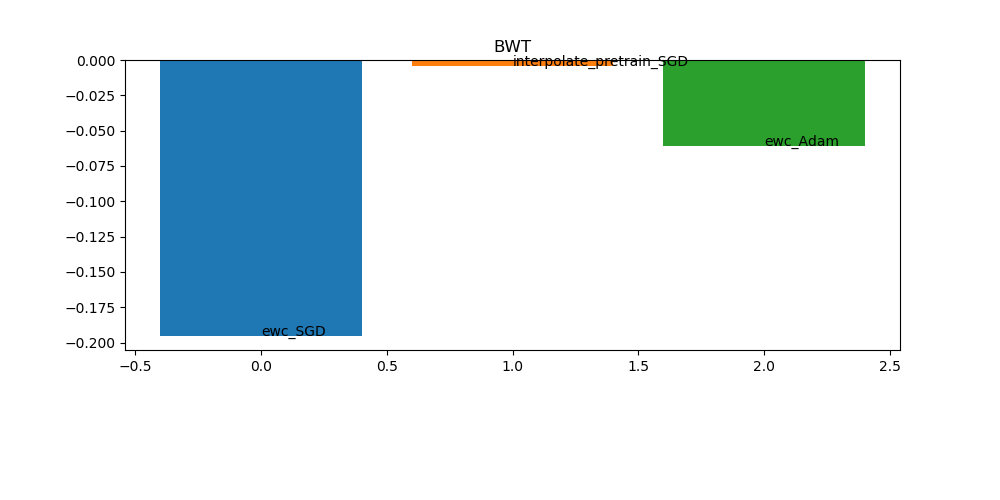
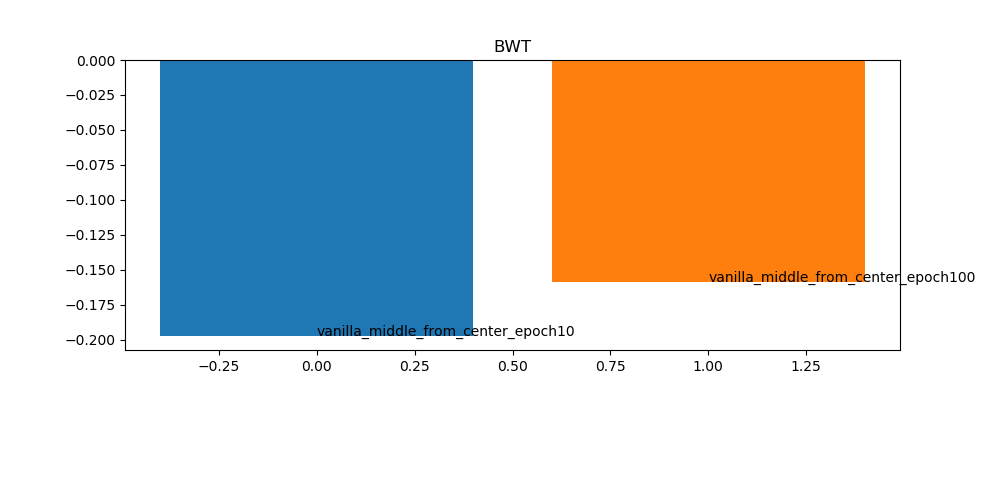
ewc experiment

diff --git a/plot_interpolation_graph_per_task_for_interpolate_pretrain.py b/plot_interpolation_graph_per_task_for_interpolate_pretrain.py
@@ -1,0 +1,186 @@
+import sys, os, time
+import numpy as np
+
+import pickle
+
+from numpy.core.defchararray import array
+from arguments import get_args
+import random
+
+import matplotlib.pyplot as plt
+import re
+
+def get_acc(filename):
+    target_file = open(filename, "r")
+    content = target_file.readlines()
+    acc = []
+    for model_t, line in enumerate(content):
+        t_acc = [float(i) for i in line.split(" ")]
+        if sum(t_acc) < 1e-6:
+            break
+        acc.append(t_acc)
+    return acc
+
+def get_bwt(filename):
+    target_file = open(filename, "r")
+    content = target_file.readlines()
+    last_acc = [float(i) for i in content[-1].split(" ")]
+    for t, line in enumerate(content):
+        if t == len(content)-1:
+            break
+        t_acc = [float(i) for i in line.split(" ")]
+        R_ii = t_acc[t]
+        last_acc[t] = last_acc[t] - R_ii
+    return sum(last_acc[0:-1])/float(len(last_acc[0:-1]))
+def main():
+    if len(sys.argv) != 4:
+        print('Argument 1 : target directory to plot')
+        print('Argument 2 : Plot in One figure - 1, Plot in multiple figure - 2')
+        print('Argument 3 : Name for ouput figure')
+        sys.exit()
+    print('Load data...')
+    loss_dict = dict()
+    target_dir = sys.argv[1]
+    plot_type = int(sys.argv[2])
+    acc_list = {} 
+    for filename in os.listdir(target_dir):
+        if filename.endswith(".txt"):
+            if 'interpolate_pretrain_interpolate_from_model_19.txt' in filename:
+                trainer = filename
+            #elif 'CIFAR100_for_Resnet' in filename and 'epoch_100' in filename and 'SGD' in filename and 'ewc' in filename:
+            #    trainer = 'ewc_SGD'
+            #elif 'CIFAR100_for_Resnet' in filename and 'epoch_100' in filename and 'SGD' in filename and 'interpolate_pretrain' in filename:
+            #    trainer = 'interpolate_pretrain_SGD'
+            else:
+                continue
+            model_t = re.search('interpolate_pretrain_interpolate_from_model_(.+?).txt', filename).group(1)
+            #lr = re.search('lr_(.+?)_', filename).group(1)
+            acc = get_acc(os.path.join(target_dir, filename))
+            for t, acc_t in enumerate(acc):
+                acc_list[t] = ('task_{}'.format(t), acc_t)
+            # if trainer not in acc_list.keys():
+            #     acc_list[trainer] = (filename, acc)
+            # else:
+            #     if acc_list[trainer][1][-1] < acc[-1]:
+            #         acc_list[trainer] = (filename, acc)
+
+            #if acc[-1] > 65.5:
+            #    acc_list.append((filename, acc))
+            #if len(acc_list) == 0:
+            #    acc_list.append((trainer, lamb, lr, acc))
+            #else:
+            #    if acc[-1] > acc_list[-1][-1][-1]:
+            #        del(acc_list[-1])
+            #        acc_list.append((trainer, lamb, lr, acc))
+            #    else:
+            #        continue
+        else:
+            continue
+
+    #acc_list.sort(key=lambda x:(x[0], float(x[1]), float(x[2])))
+    #acc_list.sort(key=lambda x:x[1])
+# Plot in one Figure
+    if plot_type == 1:
+        title = f"per Task ACC - Left : Model {model_t}, Right : Another model"
+        plt.figure(figsize=(10,5))
+        plt.title(title)
+        #plt.xticks(np.arange(1,6), labels=['2', '3', '4', '5'])
+        plt.xticks(np.arange(0,30,1), labels = [str(round(float(i),2)) for i in np.arange(-1,2, 0.1)])
+        # plt.ylim([0,1])
+        #plt.xticks(np.arange(30))
+        plt.xlabel("Interpolation Coefficient")
+        plt.ylabel("Acc on per Task")
+
+        #for trainer, lamb, lr, acc in acc_list:
+
+        #    #legend = re.search('tilt_(.+?)_', loss_filename)
+        #    #if legend:
+        #    #    legend = legend.group(1)
+        #    #else:
+        #    #    sys.exit()
+
+        #    plt.plot(acc,'o-', label='{}, lamb:{}, lr:{}'.format(trainer, lamb, lr))
+        acc_list_values = list(acc_list.values())
+        acc_list_values.sort(key=lambda x:x[1][-1], reverse=True)
+        knowledge_list = []
+        for filename, acc in acc_list_values:
+            knowledge_list.append((filename, round(acc[-1],2)))
+            plt.plot(acc, 'o-', label=filename)
+            # plt.text(len(acc)-1, acc[-1], "acc: "+str(acc[-1]))
+
+        
+        plt.legend()
+        plt.grid()
+        plt.savefig(sys.argv[3])
+        # print("knowledge diff : {}".format(sum(np.array(knowledge_list[0])-np.array(knowledge_list[1]))))
+
+
+        
+        #title = "knowledge diff"
+        #plt.figure(figsize=(10,5))
+        #plt.title(title)
+        #plt.xlabel("Knowledge")
+        #plt.ylabel("Avg Accuracy Diff")
+        #ticklabel=list((round(i,1)) for i in np.arange(0.1,1.1,0.1))
+        #plt.xticks(list(np.arange(0, 10,1)),ticklabel)
+
+        #knowledge_x = []
+        #knowledge_diff_list = []
+        #for i in range(1, 11):
+        #    knowledge_diff = 0
+        #    for filename, acc in knowledge_list:
+        #        if str(round(i*0.1,2)) in filename:
+        #            if knowledge_diff == 0:
+        #                knowledge_diff = acc
+        #            else:
+        #                knowledge_diff -= acc
+        #    knowledge_diff_list.append(round(knowledge_diff,2))
+        #plt.plot(knowledge_diff_list, 'o-')
+        #for i in range(10):
+        #    plt.text(i, knowledge_diff_list[i], str(knowledge_diff_list[i]))
+        #plt.grid()
+
+        #plt.savefig("knowledge_diff_"+sys.argv[3])
+
+        #
+        #title = "BWT"
+        #plt.figure(figsize=(10,5))
+        #plt.title(title)
+        #trainer_list = []
+        #bwt_list = []
+        #for trainer, (filename, _) in acc_list.items():
+        #    trainer_list.append(trainer)
+        #    bwt_list.append(get_bwt(os.path.join(target_dir, filename)))
+        #x = np.arange(len(trainer_list))
+        #for i in x:
+        #    plt.bar(i,bwt_list[i])
+        #    #plt.text(i,bwt_list[i], str(round(bwt_list[i],4)))
+        #    plt.text(i,bwt_list[i], trainer_list[i])
+        ##plt.bar(x, bwt_list)
+        ##plt.xticks(x, trainer_list, rotation=45)
+        #plt.gcf().subplots_adjust(bottom=0.30)
+        #plt.savefig('bar_'+sys.argv[3])
+# Plot in Multiple Figure
+    elif plot_type == 2:
+        fig = plt.figure()
+        for tilt, loss_arr in loss_list:
+            #legend = re.search('tilt_(.+?)_', loss_filename)
+            #if legend:
+            #    legend = legend.group(1)
+            #else:
+            #    sys.exit()
+            ax = fig.add_subplot(4,3,int(float(tilt))+1)
+            ax.plot(loss_arr, label='tilt = {}/10.0*pi'.format(tilt))
+            ax.legend()
+        plt.savefig(sys.argv[3], dpi=300)
+    else:
+        print('Plot type must be 1 or 2')
+        sys.exit()
+
+
+
+
+
+
+if __name__=="__main__":
+    main()

diff --git a/plot_avg_acc_all.py b/plot_avg_acc_all.py
@@ -92,14 +92,18 @@ def main():
             #    trainer = 'film_diag_resnet18_SGD'
             #if 'CIFAR100' in filename and 'knowledge' in filename and 'epoch_60' in filename and 'remember' not in filename:
             #    trainer = 'mas'
-            if 'CIFAR100_for_Resnet' in filename and 'epoch_60' in filename and 'Adam' in filename and 'ewc' in filename:
-                trainer = 'ewc_Adam'
-            elif 'CIFAR100_for_Resnet' in filename and 'epoch_100' in filename and 'SGD' in filename and 'ewc' in filename:
-                trainer = 'ewc_SGD'
-            # elif 'CIFAR100_for_Resnet' in filename and 'epoch_60' in filename and 'Adam' in filename and 'interpolate_pretrain' in filename:
-            #     trainer = 'interpolate_pretrain_Adam'
-            elif 'CIFAR100_for_Resnet' in filename and 'epoch_100' in filename and 'SGD' in filename and 'interpolate_pretrain' in filename:
-                trainer = 'interpolate_pretrain_SGD'
+            # if 'CIFAR100_for_Resnet' in filename and 'epoch_60' in filename and 'Adam' in filename and 'ewc' in filename:
+            #     trainer = 'ewc_Adam'
+            # elif 'CIFAR100_for_Resnet' in filename and 'epoch_100' in filename and 'SGD' in filename and 'ewc' in filename:
+            #     trainer = 'ewc_SGD'
+            # # elif 'CIFAR100_for_Resnet' in filename and 'epoch_60' in filename and 'Adam' in filename and 'interpolate_pretrain' in filename:
+            # #     trainer = 'interpolate_pretrain_Adam'
+            # elif 'CIFAR100_for_Resnet' in filename and 'epoch_100' in filename and 'SGD' in filename and 'interpolate_pretrain' in filename:
+            #     trainer = 'interpolate_pretrain_SGD'
+            if 'CIFAR100_for_Resnet' in filename and 'epoch_10.txt' in filename and 'SGD' in filename and 'vanilla_middle_from_center' in filename:
+                trainer = 'vanilla_middle_from_center_epoch10'
+            elif 'CIFAR100_for_Resnet' in filename and 'epoch_100' in filename and 'SGD' in filename and 'vanilla_middle_from_center' in filename:
+                trainer = 'vanilla_middle_from_center_epoch100'
             # elif 'CIFAR100_for_Resnet' in filename and 'epoch_100' in filename:
             #     trainer = filename
            
@@ -214,7 +218,7 @@ def main():
         knowledge_list = []
         for filename, acc in acc_list_values:
             knowledge_list.append((filename, round(acc[-1],2)))
-            plt.plot(acc, 'o-', label=filename[4:-10])
+            plt.plot(acc, 'o-', label=filename[10:-1])
             plt.text(len(acc)-1, acc[-1], "acc: "+str(acc[-1]))
 
         

diff --git a/trainer/ewc.py b/trainer/ewc.py
@@ -84,6 +84,9 @@ class Trainer(trainer.GenericTrainer):
             test_loss,test_acc=self.evaluator.evaluate(self.model, self.test_iterator, t, self.device)
             print(' Test: loss={:.3f}, acc={:5.1f}% |'.format(test_loss,100*test_acc),end='')
             print()
+        log_name = '_{}_{}_{}_{}_lamb_{}_lr_{}_batch_{}_epoch_{}'.format(self.args.dataset,self.args.trainer, self.args.optimizer, self.args.seed,
+                                                                           self.args.lamb, self.args.lr, self.args.batch_size, self.args.nepochs)
+        torch.save(self.model.state_dict(), './trained_model/' + log_name + '_task_{}.pt'.format(t))
 
     def criterion(self,output,targets):
         # Regularization for all previous tasks
